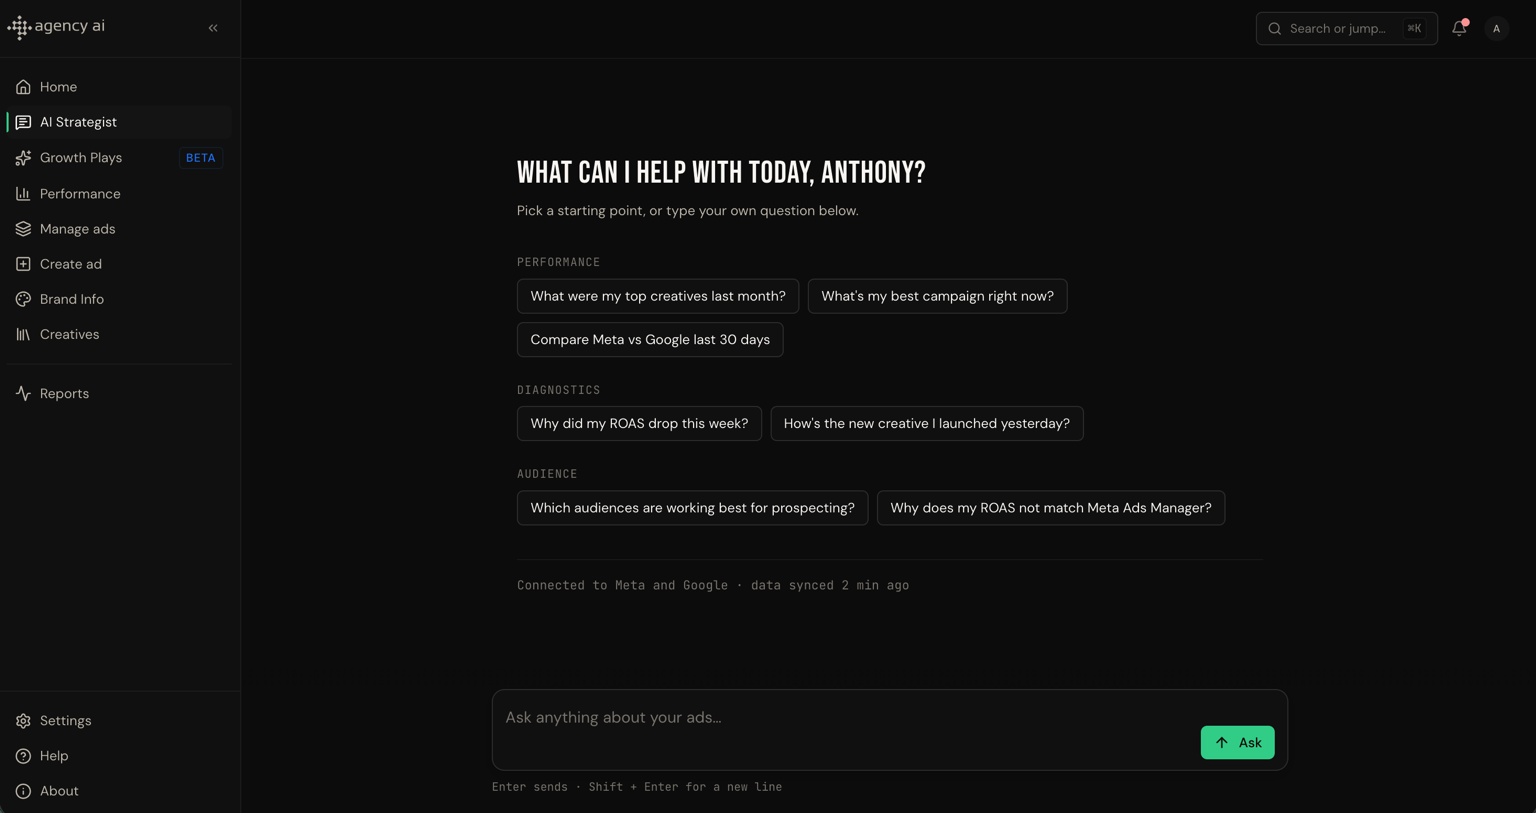
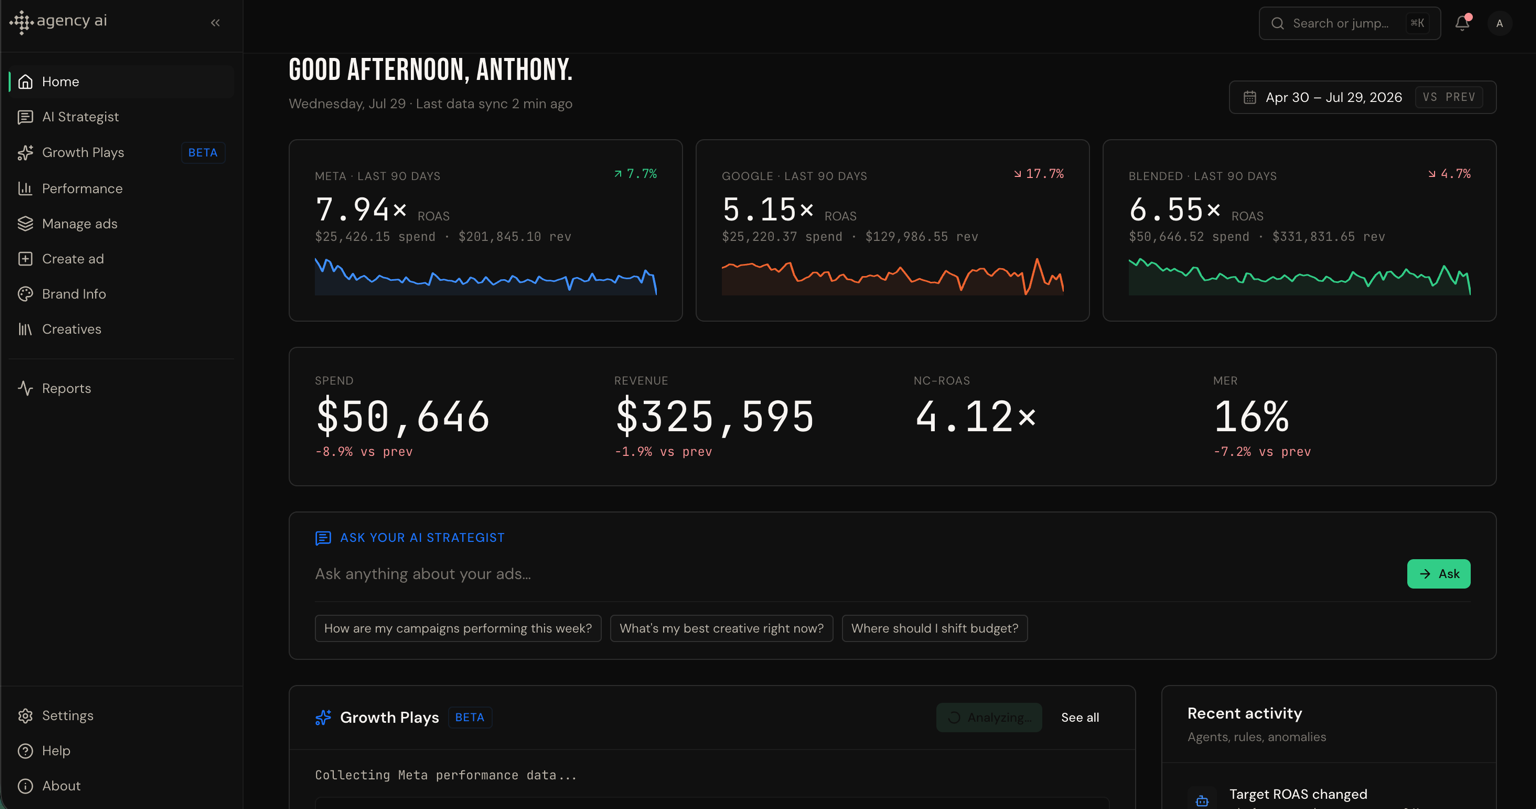
Add all three product screenshots to the benchmarks article
Dashboard becomes the hero, AI Strategist illustrates the
benchmarks-disagreement section, Manage Ads sits in the product section.
Data shown is demo data, confirmed by the client.

diff --git a/blog/shopify-ad-benchmarks-2026.html b/blog/shopify-ad-benchmarks-2026.html
@@ -703,12 +703,8 @@
         <span>12 min read</span>
       </div>
 
-      <!-- PENDING CLIENT APPROVAL: if the Home-dashboard screenshot is cleared for publication,
-           it becomes the hero and this strategist screenshot moves down to the
-           "Why Do These Benchmarks Disagree So Much?" section. -->
-      <img class="post-hero" src="../assets/blog/shopify-ad-benchmarks-hero.png" alt="Agency AI strategist answering ROAS questions" width="1536" height="813" />
+      <img class="post-hero" src="../assets/blog/shopify-ad-benchmarks-hero.png" alt="Shopify ad benchmarks dashboard: Meta and Google ROAS" width="1536" height="809" />
 
-<!-- PENDING CLIENT APPROVAL: screenshot Snip20260729_137.png (alt: "Shopify ad benchmarks dashboard: Meta and Google ROAS") goes here once cleared for publication. -->
 
 <p>What is a good ROAS for a Shopify store in 2026? Above 1.86x on Meta, the median across nearly 35,000 ecommerce brands. A good blended CAC runs $53 to $91 depending on your vertical, and a good conversion rate starts around 3.2%. Your real target depends on your gross margin.</p>
 
@@ -820,6 +816,8 @@
 
 <p>The mismatch is common enough that ad tools now treat it as a standard question, alongside week-to-week swings and cross-platform comparisons.</p>
 
+<img class="post-hero" src="../assets/blog/agency-ai-strategist-roas.png" alt="Agency AI strategist answering ROAS questions" width="1536" height="813" loading="lazy" />
+
 <p>The definitions that matter most:</p>
 
 <ul>
@@ -853,7 +851,7 @@
 
 <p>Agency AI installs from the Shopify App Store and runs Meta and Google as one coordinated funnel through a 90+ rule agentic engine. Its AI studio generates ad copy and creative, building a full Meta ad in about two to three minutes rather than the ten-plus it takes in Ads Manager. It watches both accounts continuously and surfaces approval-ready changes measured against your break-even ROAS, so nothing moves your budget without you agreeing to it first.</p>
 
-<!-- PENDING CLIENT APPROVAL: screenshot Snip20260729_138.png (alt: "Meta and Google campaign ROAS in one dashboard") goes here once cleared for publication. -->
+<img class="post-hero" src="../assets/blog/meta-google-campaign-roas.png" alt="Meta and Google campaign ROAS in one dashboard" width="1536" height="817" loading="lazy" />
 
 <p>The point is not to replace your judgement about your own business. It is to run those levers continuously, the way an agency would, without the retainer.</p>
 
